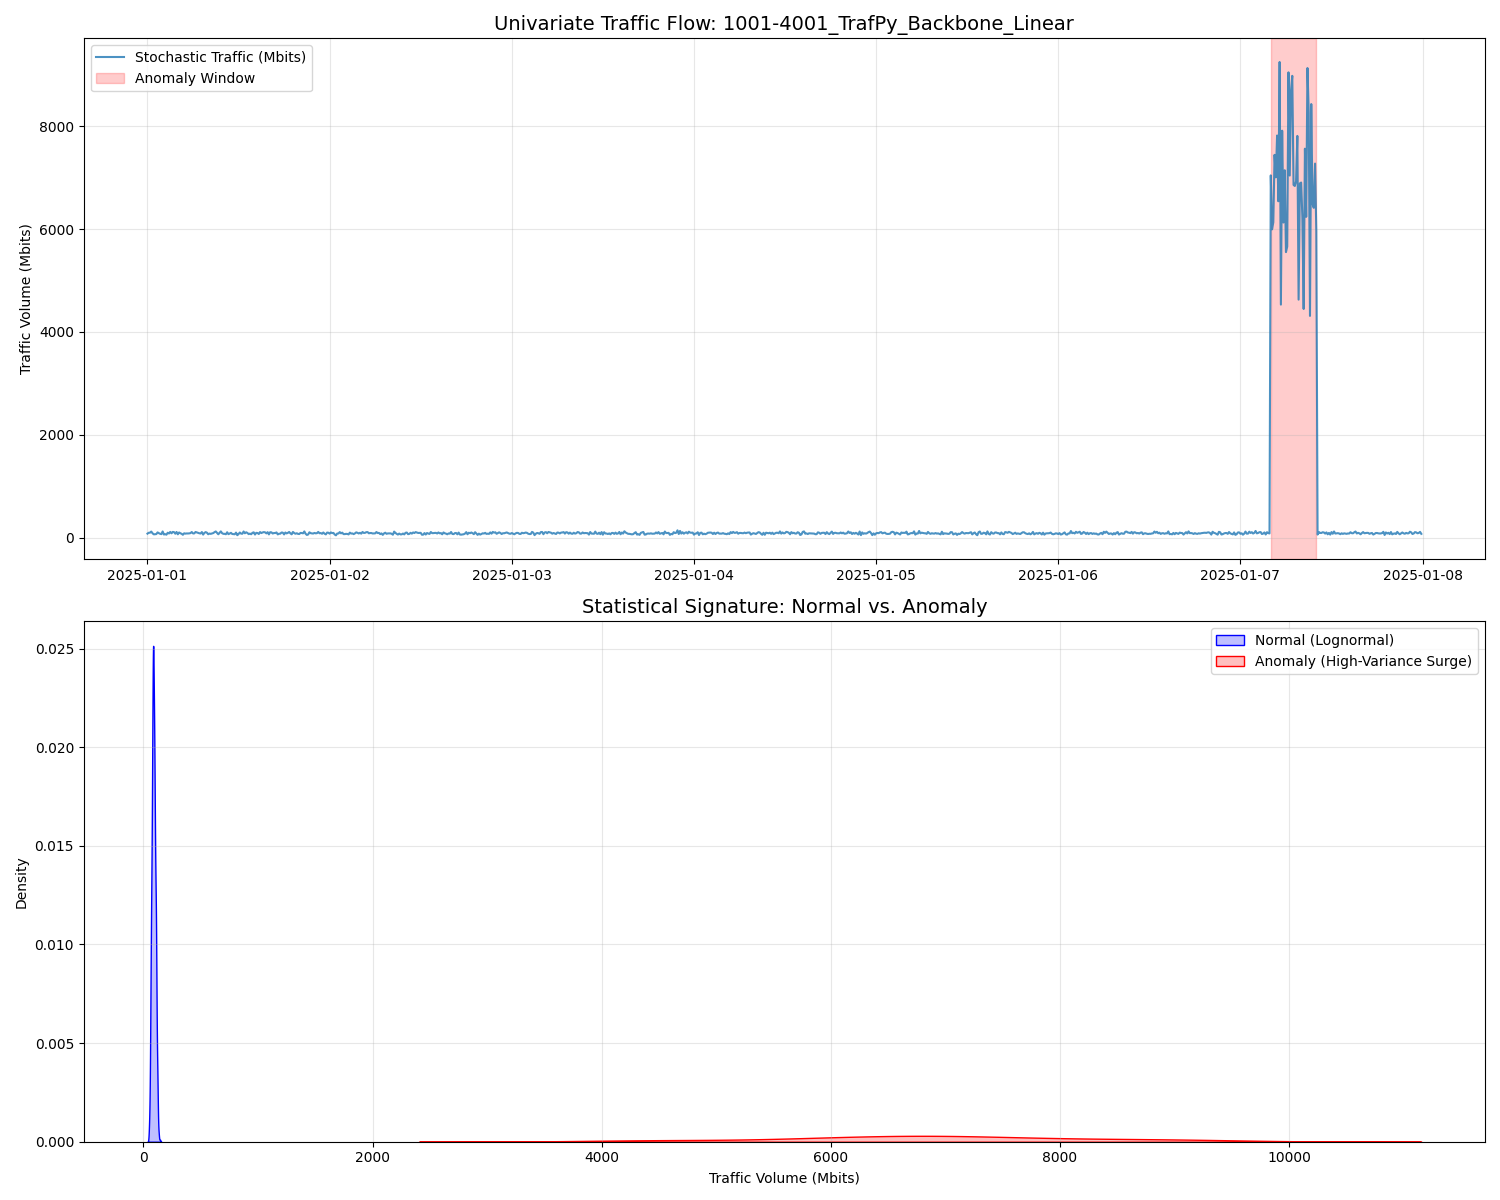
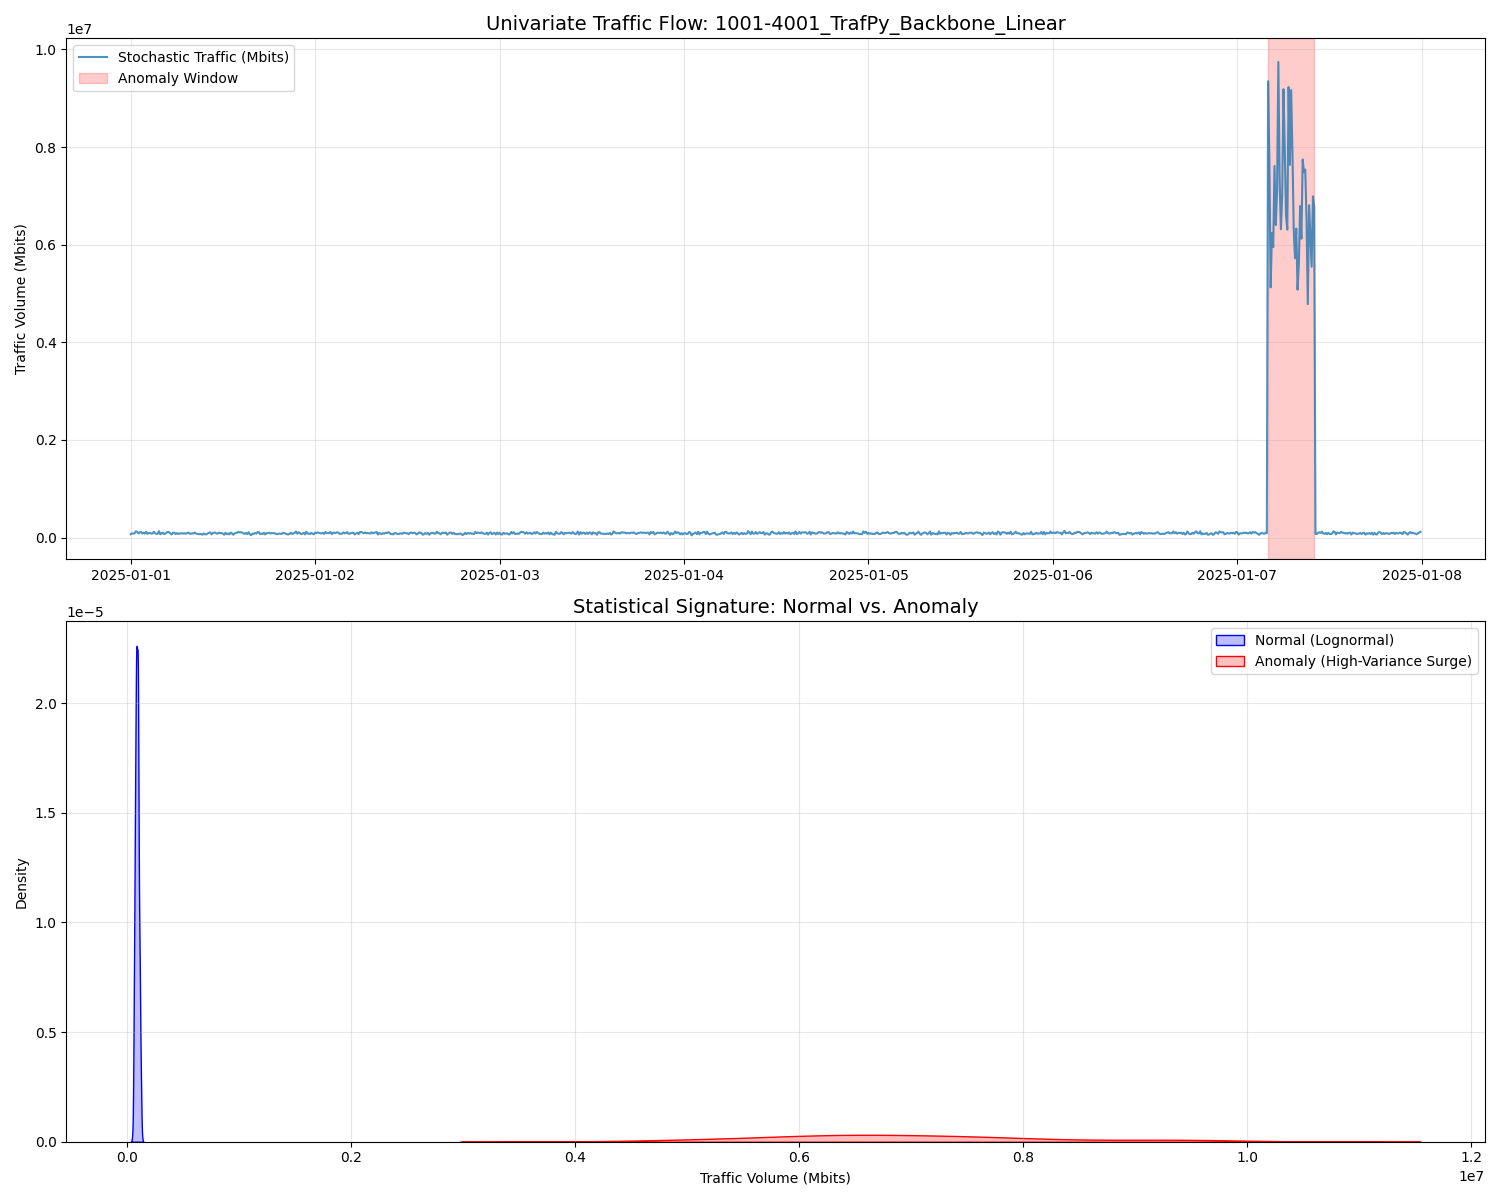
1

diff --git a/trafpy/generate.py b/trafpy/generate.py
@@ -9,70 +9,43 @@ START_DATE = '2025-01-01 00:00'
 END_DATE = '2025-01-08 00:00'
 FREQUENCY = '10min' 
 OUTPUT_FILE = 'trafpy_master_univariate_data.csv'
-NUM_FLOWS_PER_GROUP = 2 # Set to your desired number of flows per group
+NUM_FLOWS_PER_GROUP = 2 
 
 # AS Constants
 AS_IDS = {'AS100': 100, 'AS200': 200, 'AS300': 300, 'AS400': 400}
 
-# --- TRAFPY VOLUME ENGINE ---
-
 def generate_stochastic_volume(time_index, is_anomaly_array):
-    """Generates Mbits using TrafPy distributions based on anomaly state."""
     volumes = []
     events_per_interval = 50
     
-    print("Generating volume points...")
     for i in range(len(time_index)):
         if not is_anomaly_array[i]:
-            # NORMAL: mu=14. Lower variance, standard baseline.
+            # Normal: mu=14. We divide by 1e3 (Kbits) to keep numbers large and visible
             flow_sizes = val_dists.gen_lognormal_dist(_mu=14, _sigma=2, min_val=1, max_val=1e7, size=events_per_interval)
-            val = sum(flow_sizes) / 1e6 # MBits
+            val = sum(flow_sizes) / 1e3 
         else:
-            # ANOMALY: mu=18. Higher volume and higher variance.
+            # Anomaly: mu=18 + a forced jump of 500,000 units
             flow_sizes = val_dists.gen_lognormal_dist(_mu=18, _sigma=3, min_val=1, max_val=1e9, size=events_per_interval)
-            # Add a forced baseline shift to make the surge undeniable
-            val = (sum(flow_sizes) / 1e6) + 500 
+            val = (sum(flow_sizes) / 1e3) + 500000 
             
         volumes.append(val)
-        
     return np.array(volumes)
-
-# --- MASTER TEMPLATES ---
-
-master_templates = [
-    {
-        'group': 'TrafPy_Backbone_Linear',
-        'asn': {'src': 1001, 'dst': 4001, 'hnd': AS_IDS['AS200'], 'nex': AS_IDS['AS300']},
-        'anomaly_window': ('2025-01-07 04:00', '2025-01-07 10:00')
-    },
-    {
-        'group': 'TrafPy_AS_Shift',
-        'asn': {'src': 5001, 'dst': 5002, 'hnd': AS_IDS['AS300'], 'nex': AS_IDS['AS100']},
-        'anomaly_window': ('2025-01-07 12:00', '2025-01-07 18:00')
-    }
-]
-
-# --- EXECUTION ---
 
 def generate_full_master_dataset():
     time_index = pd.date_range(start=START_DATE, end=END_DATE, freq=FREQUENCY, inclusive='left')
     all_flows = []
 
     for template in master_templates:
-        print(f"Processing Group: {template['group']}")
-        for i in tqdm(range(NUM_FLOWS_PER_GROUP)):
+        for i in range(NUM_FLOWS_PER_GROUP):
             src_asn = template['asn']['src'] + i
             dst_asn = template['asn']['dst'] + i
             flow_id = f"{src_asn}-{dst_asn}_{template['group']}"
-            
-            is_anomaly = (time_index >= template['anomaly_window'][0]) & \
-                         (time_index <= template['anomaly_window'][1])
-            
+            is_anomaly = (time_index >= template['anomaly_window'][0]) & (time_index <= template['anomaly_window'][1])
             traffic_volume = generate_stochastic_volume(time_index, is_anomaly)
             
             df = pd.DataFrame({
                 'timestamp': time_index,
-                'traffic_volume_Mbits': traffic_volume,
+                'traffic_volume_Mbits': traffic_volume, # Kept name Mbits for visualize.py
                 'is_anomaly': is_anomaly,
                 'flow_key_id': flow_id,
                 'sourceAS': src_asn,
@@ -84,8 +57,12 @@ def generate_full_master_dataset():
 
     final_df = pd.concat(all_flows, ignore_index=True)
     final_df.to_csv(OUTPUT_FILE, index=False)
-    print(f"\nSaved {len(final_df)} rows to {OUTPUT_FILE}")
-    return final_df
+    print(f"Success. Tail of data:\n{final_df[['traffic_volume_Mbits', 'is_anomaly']].tail(5)}")
+
+master_templates = [
+    {'group': 'TrafPy_Backbone_Linear', 'asn': {'src': 1001, 'dst': 4001, 'hnd': 200, 'nex': 300}, 'anomaly_window': ('2025-01-07 04:00', '2025-01-07 10:00')},
+    {'group': 'TrafPy_AS_Shift', 'asn': {'src': 5001, 'dst': 5002, 'hnd': 300, 'nex': 100}, 'anomaly_window': ('2025-01-07 12:00', '2025-01-07 18:00')}
+]
 
 if __name__ == "__main__":
     generate_full_master_dataset()
